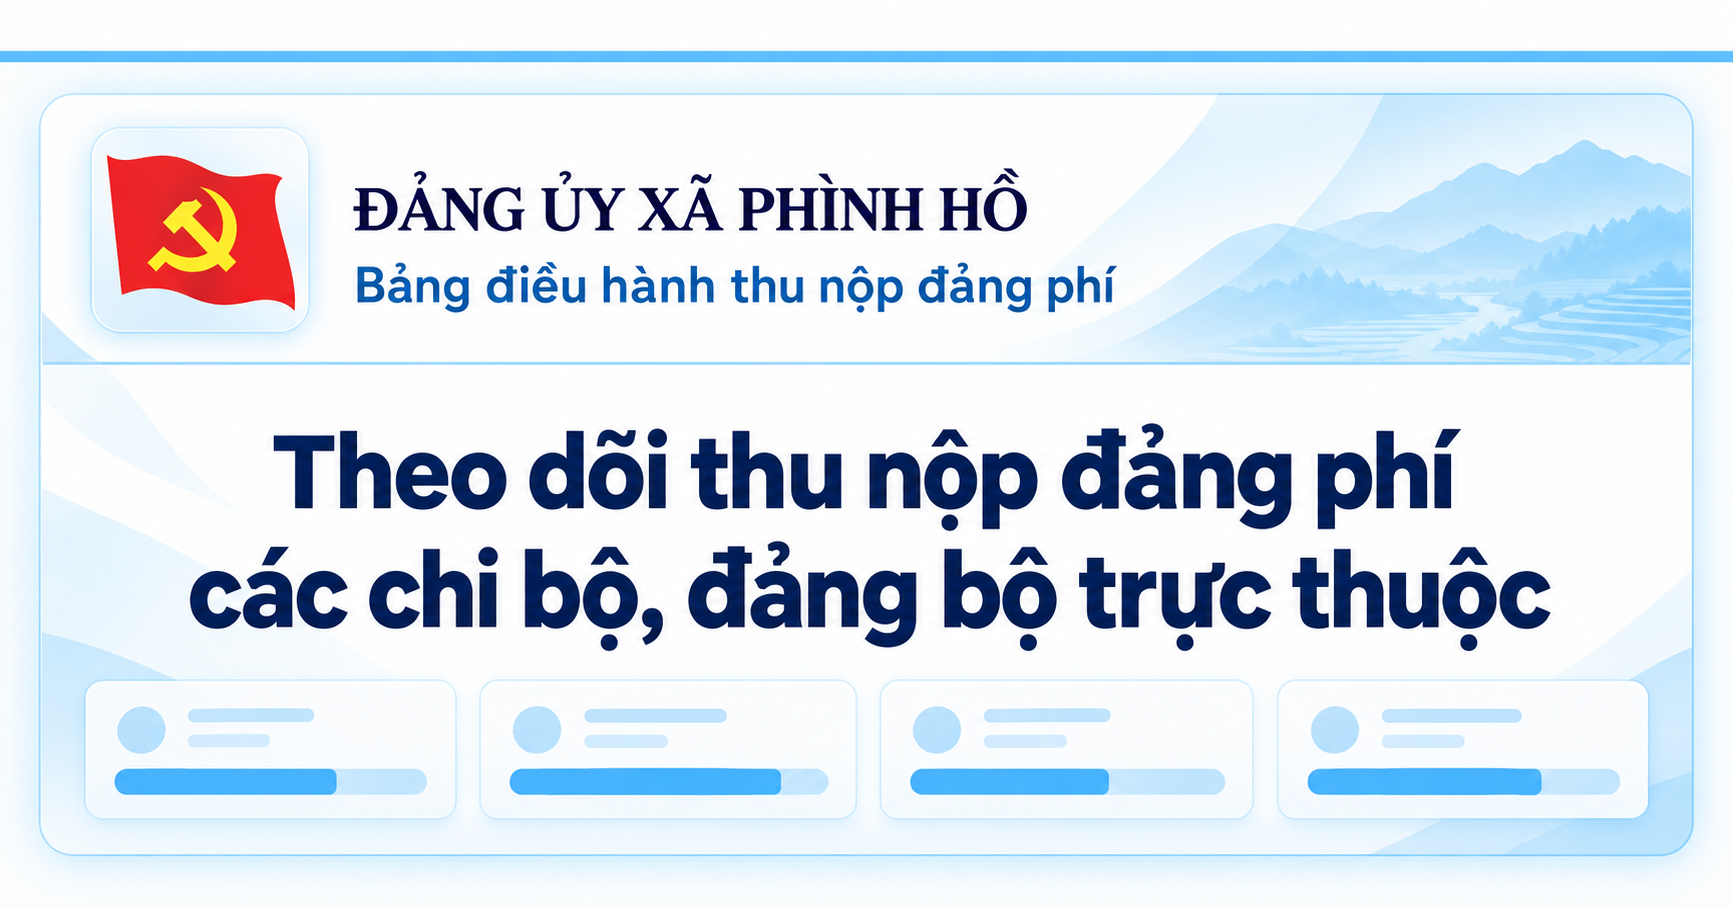
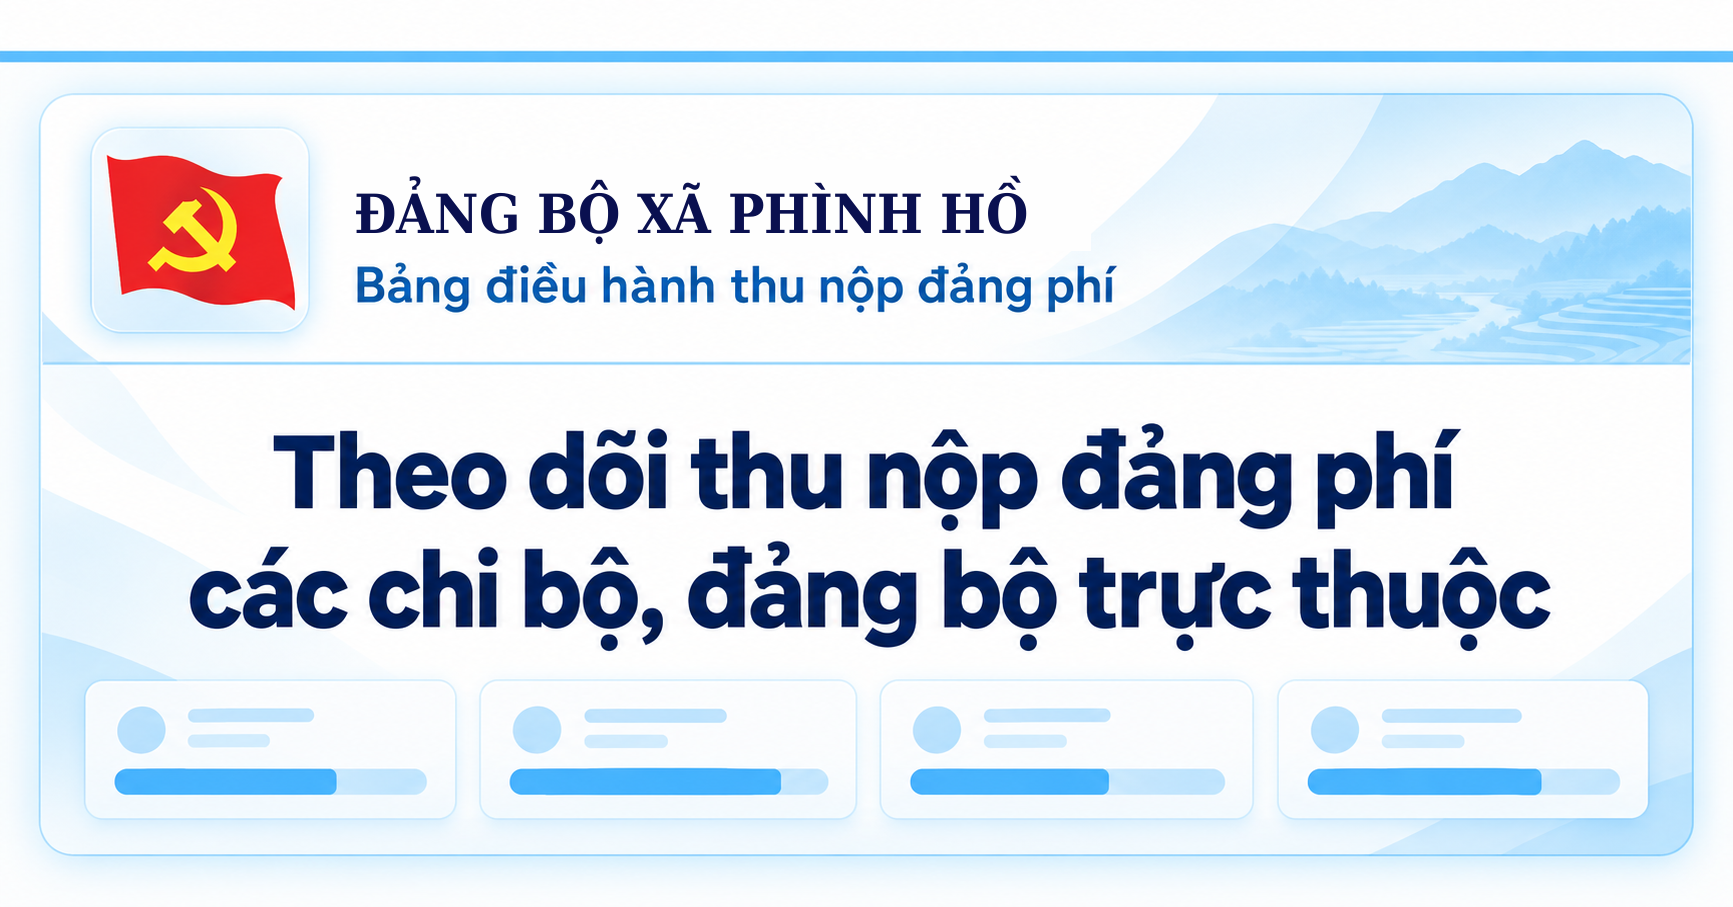
Ảnh chia sẻ link: đổi tên thành ĐẢNG BỘ XÃ PHÌNH HỒ

Changed region(s): [[0.187, 0.1852, 0.592, 0.2778]]

diff --git a/index.html b/index.html
@@ -13,12 +13,12 @@
 <meta property="og:url" content="https://laocai-cds.github.io/phinhho/">
 <meta property="og:description" content="Theo dõi tiến độ thu nộp đảng phí của các chi bộ, đảng bộ trực thuộc Đảng bộ xã Phình Hồ.">
 <meta name="twitter:card" content="summary_large_image">
-<meta property="og:image" content="https://laocai-cds.github.io/phinhho/og-image-ph.png">
+<meta property="og:image" content="https://laocai-cds.github.io/phinhho/og-image-ph.png?v=20261104">
 <meta property="og:image:type" content="image/png">
 <meta property="og:image:alt" content="Đảng bộ xã Phình Hồ · Bảng điều hành thu nộp đảng phí">
 <meta property="og:image:width" content="1200">
 <meta property="og:image:height" content="630">
-<meta name="twitter:image" content="https://laocai-cds.github.io/phinhho/og-image-ph.png">
+<meta name="twitter:image" content="https://laocai-cds.github.io/phinhho/og-image-ph.png?v=20261104">
 <link rel="icon" type="image/png" href="logo.png">
 <link rel="apple-touch-icon" href="logo.png">
 <link rel="preconnect" href="https://fonts.googleapis.com">
